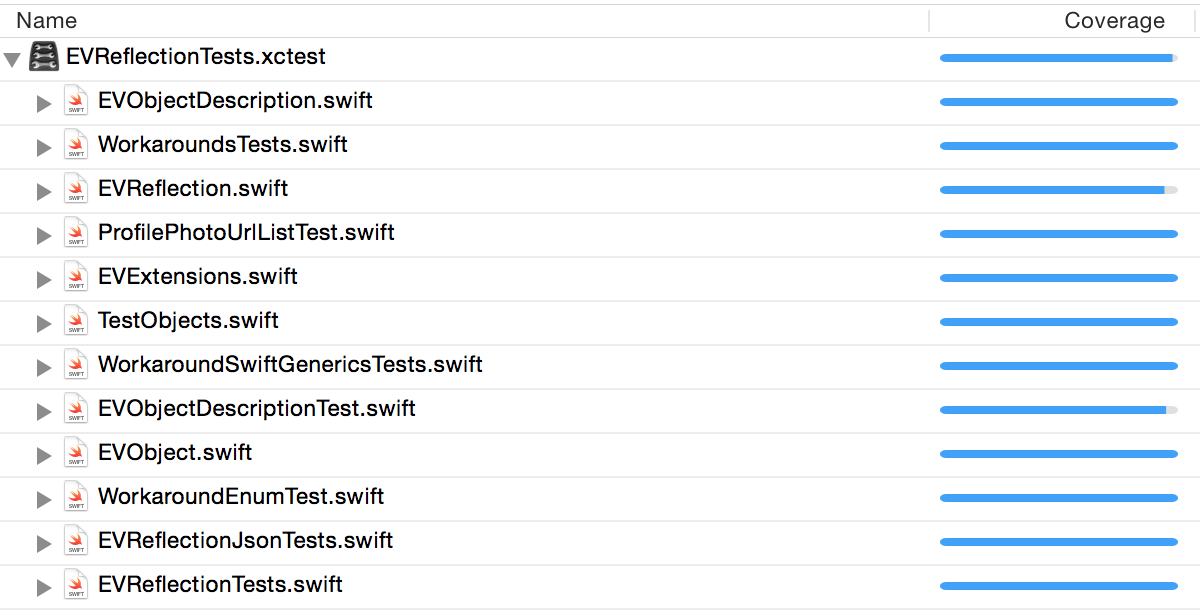
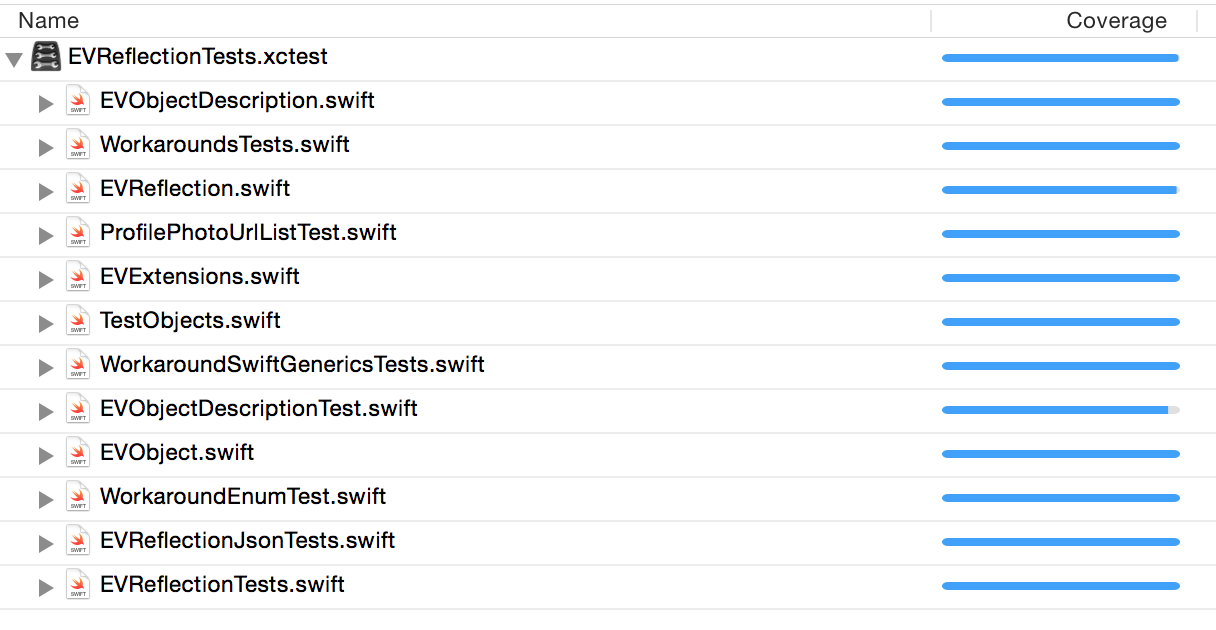
added tests (Coverage is now 99%)

diff --git a/EVReflection/pod/EVReflection.swift b/EVReflection/pod/EVReflection.swift
@@ -22,13 +22,22 @@ final public class EVReflection {
     */
     public class func fromDictionary(dictionary:NSDictionary, anyobjectTypeString: String) -> NSObject? {
         if var nsobject = swiftClassFromString(anyobjectTypeString) {
+            NSLog("\(nsobject)")
             nsobject = setPropertiesfromDictionary(dictionary, anyObject: nsobject)
             return nsobject
         }
         return nil
     }
     
+    /**
+    Try to map a property name to a json/dictionary key by applying some rules like property mapping, snake case conversion or swift keyword fix.
     
+    - parameter anyObject: the object where the key is part of
+    - parameter key:       the key to clean up
+    - parameter tryMatch:  dictionary of keys where a mach will be tried to
+    
+    - returns: the cleaned up key
+    */
     private class func cleanupKey(anyObject:NSObject, key:String, tryMatch:NSDictionary?) -> String? {
         var newKey: String = key
 
@@ -83,8 +92,10 @@ final public class EVReflection {
         return newKey
     }
     
+    /// List of swift keywords for cleaning up keys
     private static let keywords = ["self", "description", "class", "deinit", "enum", "extension", "func", "import", "init", "let", "protocol", "static", "struct", "subscript", "typealias", "var", "break", "case", "continue", "default", "do", "else", "fallthrough", "if", "in", "for", "return", "switch", "where", "while", "as", "dynamicType", "is", "new", "super", "Self", "Type", "__COLUMN__", "__FILE__", "__FUNCTION__", "__LINE__", "associativity", "didSet", "get", "infix", "inout", "left", "mutating", "none", "nonmutating", "operator", "override", "postfix", "precedence", "prefix", "right", "set", "unowned", "unowned", "safe", "unowned", "unsafe", "weak", "willSet", "private", "public", "internal", "zone"]
 
+    /// Character that will be replaced by _ from the keys in a dictionary / json
     private static let illegalCharacter = [" ", "-", "&", "%", "#", "@", "!", "$", "^", "*", "(", ")", "<", ">", "?", ".", ",", ":", ";"]
     
     /**
@@ -111,6 +122,14 @@ final public class EVReflection {
         return dictValue
     }
     
+    /**
+    Try to set a value of a property
+    
+    - parameter anyObject:    the object where the value will be set
+    - parameter key:          the name of the property
+    - parameter value:        the value that will be set
+    - parameter typeInObject: the type of the value
+    */
     private static func setObjectValue<T where T:NSObject>(anyObject: T, key:String, var value:AnyObject?, typeInObject:String? = nil) {
         if value == nil || value as? NSNull != nil {
 //            do {
@@ -273,6 +292,15 @@ final public class EVReflection {
         return (properties, types)
     }
 
+    /**
+    Create a dictionary of all property - key mappings
+    
+    - parameter theObject:  the object for what we want the mapping
+    - parameter properties: dictionairy of all the properties
+    - parameter types:      dictionairy of all property types.
+    
+    - returns: dictionairy of the property mappings
+    */
     class func cleanupKeysAndValues(theObject: NSObject, properties:NSDictionary, types:Dictionary<String,String>) -> (NSDictionary, Dictionary<String,String>) {
         let newProperties = NSMutableDictionary()
         var newTypes = Dictionary<String,String>()
@@ -413,10 +441,8 @@ final public class EVReflection {
             return tempArray
         case let ok as NSDictionary:
             return convertDictionaryForJsonSerialization(ok)
-        case let dateValue as NSDate:
-            let dateFormatter = NSDateFormatter()
-            return dateFormatter.stringFromDate(dateValue)
         default:
+            NSLog("ERROR: Unexpected type while converting value for JsonSerialization")
             return "\(value)"
         }
     }
@@ -428,17 +454,18 @@ final public class EVReflection {
     :return: The dictionary representation of the json
     */
     public class func dictionaryFromJson(json: String?) -> Dictionary<String, AnyObject> {
+        var result = Dictionary<String, AnyObject>()
         if json == nil {
-            return Dictionary<String, AnyObject>()
+            return result
         }
         if let jsonData = json!.dataUsingEncoding(NSUTF8StringEncoding) {
             do {
                 if let jsonDic = try NSJSONSerialization.JSONObjectWithData(jsonData, options: NSJSONReadingOptions.MutableContainers) as? Dictionary<String, AnyObject> {
-                    return jsonDic
+                    result = jsonDic
                 }
             } catch _ as NSError { }
         }
-        return Dictionary<String, AnyObject>()
+        return result
     }
     
     /**
@@ -449,25 +476,25 @@ final public class EVReflection {
     :return: The array of dictionaries representation of the json
     */
     public class func arrayFromJson<T>(type:T, json: String?) -> [T] {
+        var result = [T]()
         if json == nil {
-            return [T]()
+            return result
         }
-        if let jsonData = json!.dataUsingEncoding(NSUTF8StringEncoding) {
-            do {
-                if let jsonDic: [Dictionary<String, AnyObject>] = try NSJSONSerialization.JSONObjectWithData(jsonData, options: NSJSONReadingOptions.MutableContainers) as? [Dictionary<String, AnyObject>] {
-                    let nsobjectype : NSObject.Type? = T.self as? NSObject.Type
-                    if nsobjectype == nil {
-                        NSLog("WARNING: EVReflection can only be used with types with NSObject as it's minimal base type")
-                        return [T]()
-                    }
-                    return jsonDic.map({
-                        let nsobject: NSObject = nsobjectype!.init()
-                        return setPropertiesfromDictionary($0, anyObject: nsobject) as! T
-                    })
+        let jsonData = json!.dataUsingEncoding(NSUTF8StringEncoding)!
+        do {
+            if let jsonDic: [Dictionary<String, AnyObject>] = try NSJSONSerialization.JSONObjectWithData(jsonData, options: NSJSONReadingOptions.MutableContainers) as? [Dictionary<String, AnyObject>] {
+                let nsobjectype : NSObject.Type? = T.self as? NSObject.Type
+                if nsobjectype == nil {
+                    NSLog("WARNING: EVReflection can only be used with types with NSObject as it's minimal base type")
+                    return result
                 }
-            } catch _ as NSError { }
-        }
-        return [T]()
+                result = jsonDic.map({
+                    let nsobject: NSObject = nsobjectype!.init()
+                    return setPropertiesfromDictionary($0, anyObject: nsobject) as! T
+                })
+            }
+        } catch _ as NSError {}
+        return result
     }
     
     
@@ -529,7 +556,9 @@ final public class EVReflection {
         return cleanAppName
     }
     
+    /// Variable that can be set using setBundleIdentifier
     private static var bundleIdentifier:String? = nil
+    
     /**
     This method can be used in unit tests to force the bundle where classes can be found
     
@@ -551,16 +580,17 @@ final public class EVReflection {
     :return: The Class type
     */
     public class func swiftClassFromString(className: String) -> NSObject! {
+        var result: NSObject? = nil
         if className == "NSObject" {
             return NSObject()
         }
         if let anyobjectype : AnyObject.Type = swiftClassTypeFromString(className) {
             if let nsobjectype : NSObject.Type = anyobjectype as? NSObject.Type {
                 let nsobject: NSObject = nsobjectype.init()
-                return nsobject
+                result = nsobject
             }
         }
-        return nil
+        return result
     }
     
     /**
@@ -574,12 +604,6 @@ final public class EVReflection {
         let appName = getCleanAppName(theObject)
         let classStringName: String = NSStringFromClass(theObject.dynamicType)
         let classWithoutAppName: String = classStringName.stringByReplacingOccurrencesOfString(appName + ".", withString: "", options: NSStringCompareOptions.CaseInsensitiveSearch, range: nil)
-        if classWithoutAppName.rangeOfString(".") != nil {
-            NSLog("Warning! Your Bundle name should be the name of your target (set it to $(PRODUCT_NAME))")
-            let parts = classWithoutAppName.characters.split(isSeparator:{$0 == "."})
-            let strings: [String] = parts.map { String($0) }
-            return strings.last!
-        }
         return classWithoutAppName
     }
     

diff --git a/EVReflection/pod/EVExtensions.swift b/EVReflection/pod/EVExtensions.swift
@@ -31,6 +31,9 @@ public func !=(lhs: EVObject, rhs: EVObject) -> Bool {
 }
 
 
+/**
+Extending the NSObject
+*/
 public extension NSObject {
     /**
     Convenience init for creating an object whith the property values of a dictionary.
@@ -51,12 +54,23 @@ public extension NSObject {
     
     /**
     Returns the dictionary representation of this object.
+    
+    - parameter performKeyCleanup: set to true if you want to cleanup the keys
+    
+    - returns: the dictionary
     */
     final public func toDictionary(performKeyCleanup:Bool = false) -> NSDictionary {
         let (reflected, _) = EVReflection.toDictionary(self, performKeyCleanup: performKeyCleanup)
         return reflected
     }
     
+    /**
+    Convert this object to a json string
+    
+    - parameter performKeyCleanup: set to true if you want to cleanup the keys
+    
+    - returns: The json string
+    */
     final public func toJsonString(performKeyCleanup:Bool = false) -> String {
         return EVReflection.toJsonString(self, performKeyCleanup: performKeyCleanup)
     }
@@ -84,10 +98,22 @@ extension Array {
         }
     }
     
+    /**
+    Get the type of the object where this array is for
+    
+    - parameter arr: this array
+    
+    - returns: The object type
+    */
     private func getArrayTypeInstance<T>(arr:Array<T>) -> T {
         return arr.getTypeInstance()
     }
     
+    /**
+    Get the type of the object where this array is for
+    
+    - returns: The object type
+    */
     private func getTypeInstance<T>(
         ) -> T {
             let nsobjectype : NSObject.Type = T.self as! NSObject.Type

diff --git a/EVReflection/pod/EVObjectDescription.swift b/EVReflection/pod/EVObjectDescription.swift
@@ -18,6 +18,14 @@ public class EVObjectDescription {
     var classPathType: [ObjectType] = []
     var swiftClassID: String = ""
     
+    /**
+    Enum for the difrent types that can be part of an object description
+    
+    - Target:   The bundle
+    - Class:    A class
+    - Protocol: A protocol
+    - Function: A function
+    */
     public enum ObjectType:String {
         case Target = "t"
         case Class = "C"
@@ -25,6 +33,11 @@ public class EVObjectDescription {
         case Function = "F"
     }
     
+    /**
+    Initialize an instance and set all properties based on the object
+    
+    - parameter forObject: the object that you want the description for
+    */
     public init(forObject: NSObject) {
         bundleName = EVReflection.getCleanAppName()
         swiftClassID = NSStringFromClass(forObject.dynamicType)
@@ -45,6 +58,11 @@ public class EVObjectDescription {
         }
     }
     
+    /**
+    Get all types from the class string
+    
+    - parameter classString: the string representation of a class
+    */
     private func parseTypes(classString:String) {
         let characters = Array(classString.characters)
         let type:String = String(characters[0])
@@ -61,6 +79,11 @@ public class EVObjectDescription {
         }
     }
     
+    /**
+    Get all the names from the class string
+    
+    - parameter classString: the string representation of the class
+    */
     private func parseNames(classString:String) {
         let characters = Array(classString.characters)
         var numForName = ""

diff --git a/EVReflection/EVReflectionTests/EVReflectionJsonTests.swift b/EVReflection/EVReflectionTests/EVReflectionJsonTests.swift
@@ -83,8 +83,28 @@ class EVReflectionJsonTests: XCTestCase {
         let user = User(json: json)
         XCTAssertTrue(user.id == 24, "id should have been set to 24")
         XCTAssertTrue(user.friends?.count == 1, "friends should have 1 user")
+        
+        let a = EVReflection.dictionaryFromJson(nil)
+        XCTAssertEqual(a.count, 0, "Can't create a dictionairy from nil")
+
+        let b = EVReflection.dictionaryFromJson("[{\"asdf\"}")
+        XCTAssertEqual(b.count, 0, "Can't create a dictionairy from nonsence")
+        
+        let c = EVReflection.arrayFromJson(MyEnumFive.OK, json: "[{\"id\": 24}]")
+        XCTAssertEqual(c.count, 0, "Can't create a dictionairy for a non NSObject type")
+
+        let d = EVReflection.arrayFromJson(User(), json: "[{\"id\": 24}")
+        XCTAssertEqual(d.count, 0, "Can't create a dictionairy for invalid json")
+
+        let e = EVReflection.arrayFromJson(User(), json: "")
+        XCTAssertEqual(e.count, 0, "Can't create a dictionairy for invalid json")
     }
-    
+
+    enum MyEnumFive: Int {
+        case NotOK = 0
+        case OK = 1
+    }
+
     func testJsonObject(){
         let jsonDictOriginal = [
             "id": 24,

diff --git a/README.md b/README.md
@@ -5,7 +5,7 @@
  -->
 [![Build Status](https://travis-ci.org/evermeer/EVReflection.svg?style=flat)](https://travis-ci.org/evermeer/EVReflection)
 [![Issues](https://img.shields.io/github/issues-raw/evermeer/EVReflection.svg?style=flat)](https://github.com/evermeer/EVReflection/issues)
-[![Coverage](https://img.shields.io/badge/coverage-98%-brightgreen.svg?style=flat)](https://raw.githubusercontent.com/evermeer/EVReflection/master/EVReflection/coverage.png)
+[![Coverage](https://img.shields.io/badge/coverage-99%-brightgreen.svg?style=flat)](https://raw.githubusercontent.com/evermeer/EVReflection/master/EVReflection/coverage.png)
 [![Documentation](https://img.shields.io/badge/documented-100%-brightgreen.svg?style=flat)](http://cocoadocs.org/docsets/EVReflection)
 [![Stars](https://img.shields.io/github/stars/evermeer/EVReflection.svg?style=flat)](https://github.com/evermeer/EVReflection/stargazers)
 [![Version](https://img.shields.io/cocoapods/v/EVReflection.svg?style=flat)](http://cocoadocs.org/docsets/EVReflection)
